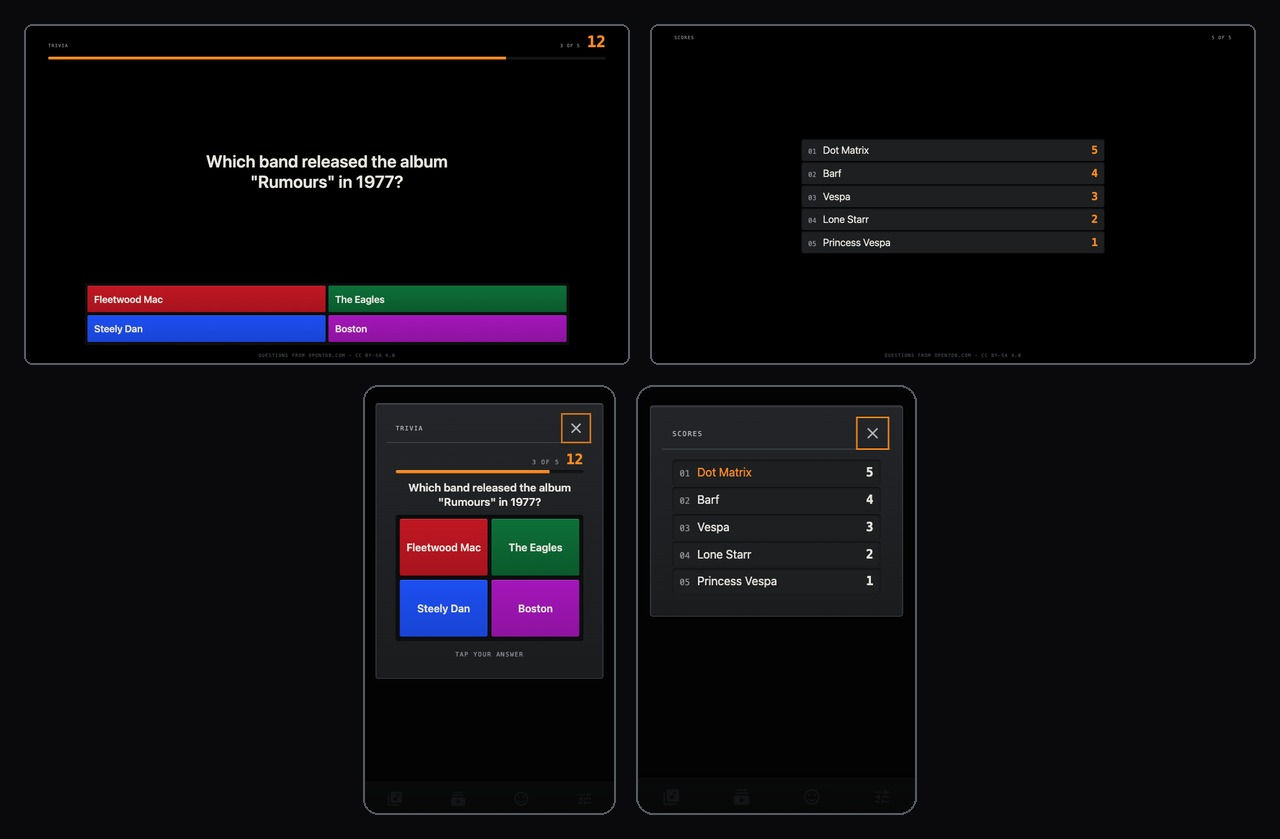
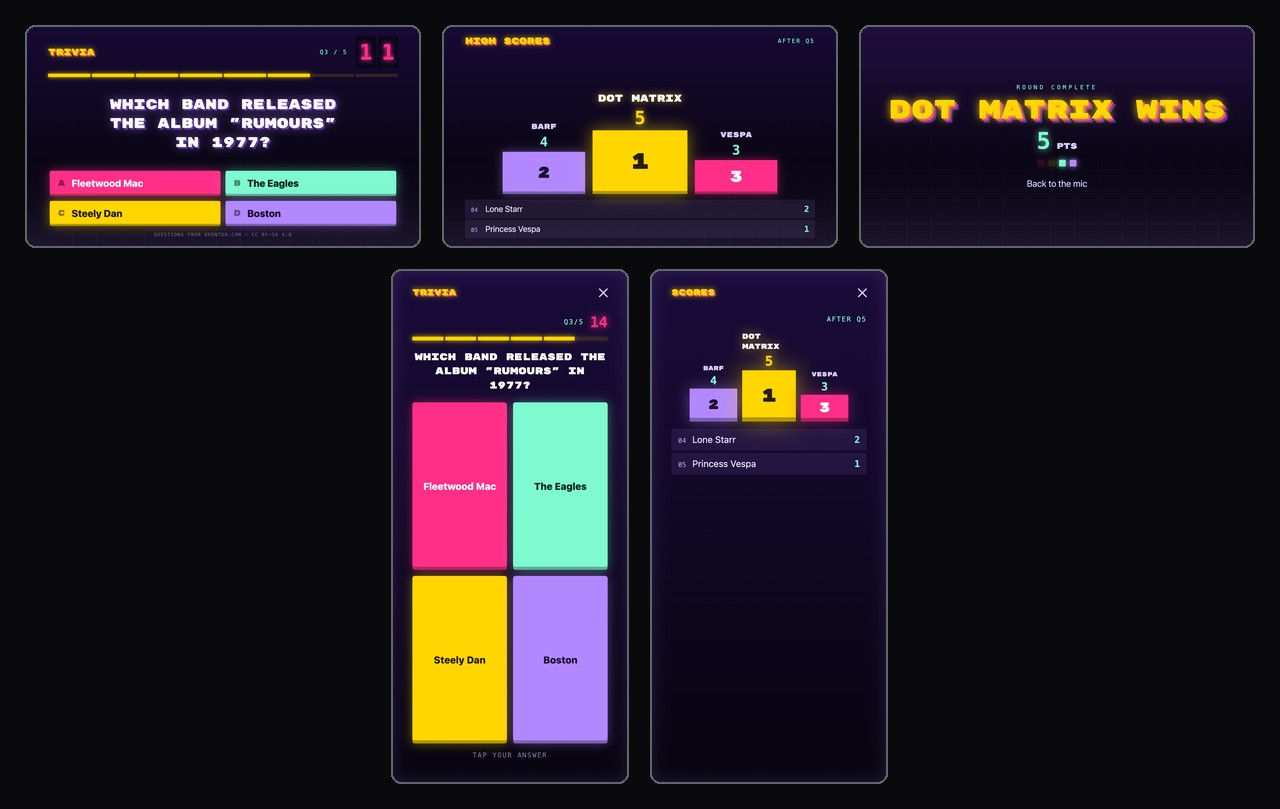
docs: one screenshot set, shared by the README and the docs site
- re-shoot trivia for the arcade redesign
- add the singing beat to the Singer Battle set
- the README's karaoke images now come from the docs app gallery, and
  the duplicate karaoke.jpg composite is gone
- docs overview puts each set under its own section; the img shortcode
  falls back to assets/ so both surfaces read the same files

diff --git a/docs/layouts/shortcodes/img.html b/docs/layouts/shortcodes/img.html
@@ -5,6 +5,10 @@
     {{ $img = . }}
   {{ end }}
 {{ end }}
+{{/* not in a docs bundle: fall back to the site's assets/ dir */}}
+{{ with and (eq (printf "%T" $img) "string") (resources.Get $img) }}
+  {{ $img = . }}
+{{ end }}
 <figure>
   <a href="#{{ anchorize $img.RelPermalink }}">
     <img srcset="{{ $img.RelPermalink }} {{ $density }}" src="{{ $img.RelPermalink }}" alt="{{ (.Get 1) }}" />

diff --git a/docs/content/_index.md b/docs/content/_index.md
@@ -8,12 +8,6 @@ description: Your TV is the stage, everybody's phone is the remote, and nobody i
 
 KaraokeArcade runs the whole night from a browser. Guests scan a QR code, search your library, queue a song and watch their place in line from the couch. You self-host it on a laptop, a Mac mini, a Raspberry Pi or a NAS - no accounts to make, no subscription, no ads, nothing phoning home.
 
-{{< screenshots >}}
-
-<p style="text-align: center;">
-  <i>App in mobile browser (top) controlling player in desktop browser (bottom)</i>
-</p>
-
 ## One queue, three kinds of turn
 
 There is one rotation and everything takes its turn in it. A trivia round and a singer battle sit in the queue exactly like a song does - they come round when they come round, and each costs a turn.
@@ -23,6 +17,12 @@ Trivia and battles are off until a host turns them on for a room, so a night tha
 ### Karaoke
 
 The part everybody came for. See <a href='{{< ref "docs/karaokearcade-app" >}}'>the app</a> for how each screen works.
+
+{{< screenshots >}}
+
+<p style="text-align: center;">
+  <i>App in mobile browser (top) controlling player in desktop browser (bottom)</i>
+</p>
 
 - **Queue from the couch.** Search by artist or song, star the ones you want later, tap once to get in line.
 - **Know when you're up.** A <a href='{{< ref "docs/karaokearcade-app/#status-strip" >}}'>strip at the top of every screen</a> counts down to your turn.
@@ -35,15 +35,19 @@ The part everybody came for. See <a href='{{< ref "docs/karaokearcade-app" >}}'>
 
 Music trivia that takes the gap between two singers, so the room has something to do - and the guests who would rather not sing get a way to play. See <a href='{{< ref "docs/karaokearcade-app/#trivia" >}}'>Trivia</a>.
 
+{{< img "images/trivia.jpg" "Trivia on the TV (top) and on a phone (bottom)" "1x" />}}
+
 - A round waits in the queue like a singer does, and comes up about once per lap.
-- **Five questions**, big on the TV, four coloured keys on every phone in the room.
+- **Five questions**, on an arcade cabinet on the TV, with four coloured keys on every phone in the room.
 - Anyone can play, whether or not they have a song queued. One answer each, first tap counts.
-- The right answer goes up for everyone at once, then the scoreboard, then the next singer is on.
+- The right answer goes up for everyone at once, then how many got it. After the last question come the high scores on a podium, then the winner, then the next singer is on.
 - Questions come from the <a href="https://opentdb.com/" rel="noopener">Open Trivia Database</a>{{% icon-external %}} and are cached ahead of time, so a party in a basement with no internet still plays.
 
 ### Singer Battle
 
 One turn, two singers, and each of them picks the other's song. It runs on the TV as an arcade cabinet: fighters, a VS slam, two-minute rounds and a verdict. See <a href='{{< ref "docs/karaokearcade-app/#battle" >}}'>Battle</a>.
+
+{{< img "images/singer-battle.jpg" "Singer Battle on the TV (top) and on a phone (bottom)" "1x" />}}
 
 - **Pick who you sing as.** Eight fighters; whoever you choose is who the room watches on stage.
 - **Throw a challenge.** Pick somebody in the room, then pick the song *they* have to sing. Their phone gets 45 seconds to accept - and the song they pick back is the one *you* sing. Neither of you sees the other's choice until it's on screen.

diff --git a/README.md b/README.md
@@ -12,7 +12,16 @@ There is one rotation and everything takes its turn in it. A trivia round and a 
 
 The part everybody came for. MP3+G, MP4 and a music-synced visualizer, a round-robin queue that stays fair as people arrive, and singers who can manage their own spot without asking the host for anything.
 
-[![Karaoke on a phone](/docs/assets/images/karaoke.jpg?raw=true)](/docs/assets/images/karaoke.jpg?raw=true)
+<p align="center">
+  <a href="docs/content/docs/karaokearcade-app/app-library.png"><img src="docs/content/docs/karaokearcade-app/app-library.png" width="150" alt="Library"></a>
+  <a href="docs/content/docs/karaokearcade-app/app-queue.png"><img src="docs/content/docs/karaokearcade-app/app-queue.png" width="150" alt="Queue"></a>
+  <a href="docs/content/docs/karaokearcade-app/app-queue-me.png"><img src="docs/content/docs/karaokearcade-app/app-queue-me.png" width="150" alt="Me tab"></a>
+  <a href="docs/content/docs/karaokearcade-app/app-account.png"><img src="docs/content/docs/karaokearcade-app/app-account.png" width="150" alt="Account"></a>
+  <a href="docs/content/docs/karaokearcade-app/app-settings.png"><img src="docs/content/docs/karaokearcade-app/app-settings.png" width="150" alt="Settings"></a>
+  <a href="docs/content/docs/karaokearcade-app/app-player.jpg"><img src="docs/content/docs/karaokearcade-app/app-player.jpg" width="790" alt="Player"></a>
+</p>
+
+<p align="center"><i>App in mobile browser (top) controlling player in desktop browser (bottom)</i></p>
 
 - **Queue from the couch.** Search by artist or song, star the ones you want later, tap once to get in line.
 - **Know when you're up.** A strip at the top of every screen counts down to your turn.
@@ -28,9 +37,9 @@ Music trivia that takes the gap between two singers, so the room has something t
 [![Trivia](/docs/assets/images/trivia.jpg?raw=true)](/docs/assets/images/trivia.jpg?raw=true)
 
 - A round waits in the queue like a singer does, and comes up about once per lap.
-- **Five questions**, big on the TV, four colored keys on every phone in the room.
+- **Five questions**, on an arcade cabinet on the TV, with four colored keys on every phone in the room.
 - Anyone can play, whether or not they have a song queued. One answer each, first tap counts.
-- The right answer goes up for everyone at once, then the scoreboard, then the next singer is on.
+- The right answer goes up for everyone at once, then how many got it. After the last question come the high scores on a podium, then the winner, then the next singer is on.
 - Questions come from the [Open Trivia Database](https://opentdb.com/) and are cached ahead of time, so a party in a basement with no internet still plays.
 
 ### 🥊 Singer Battle
